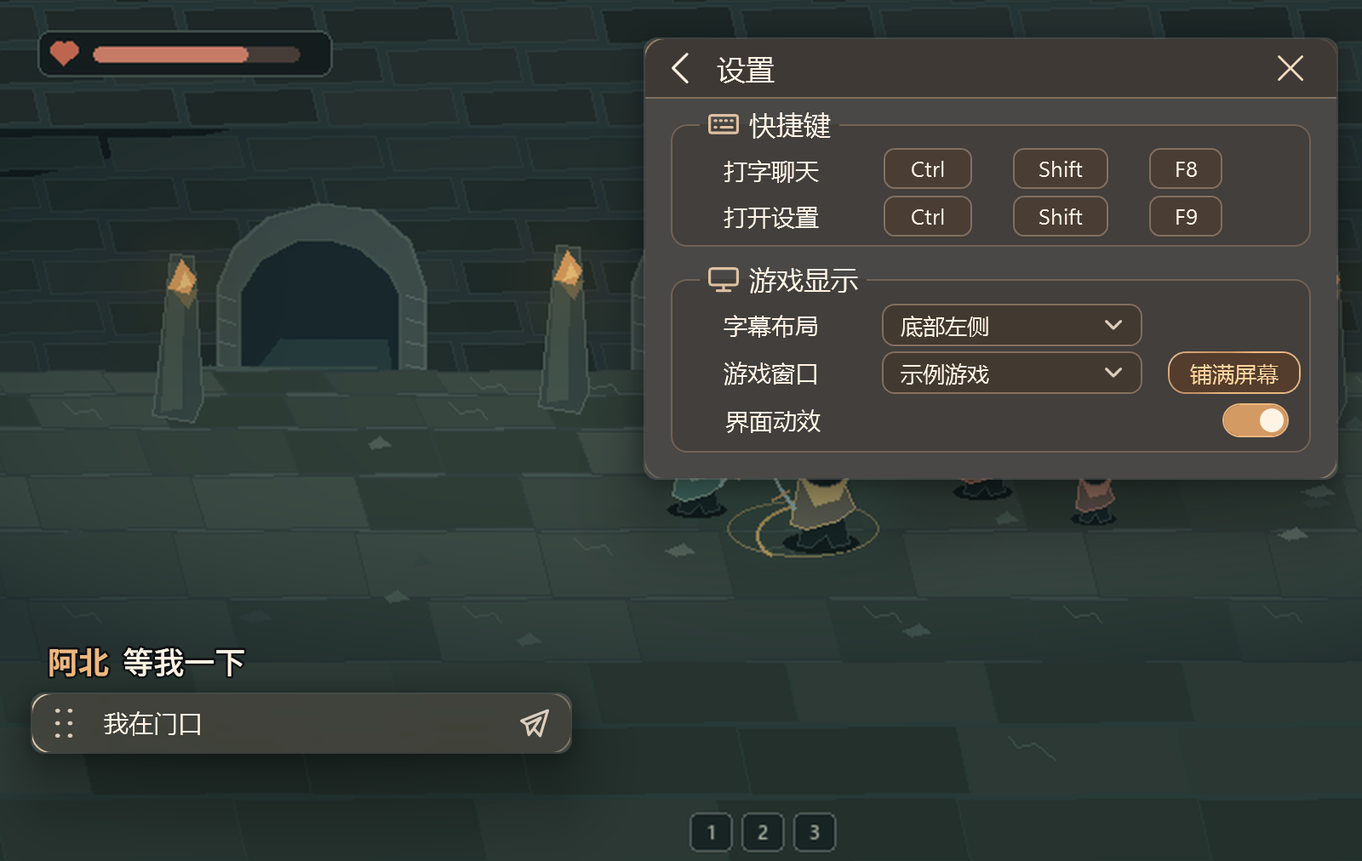
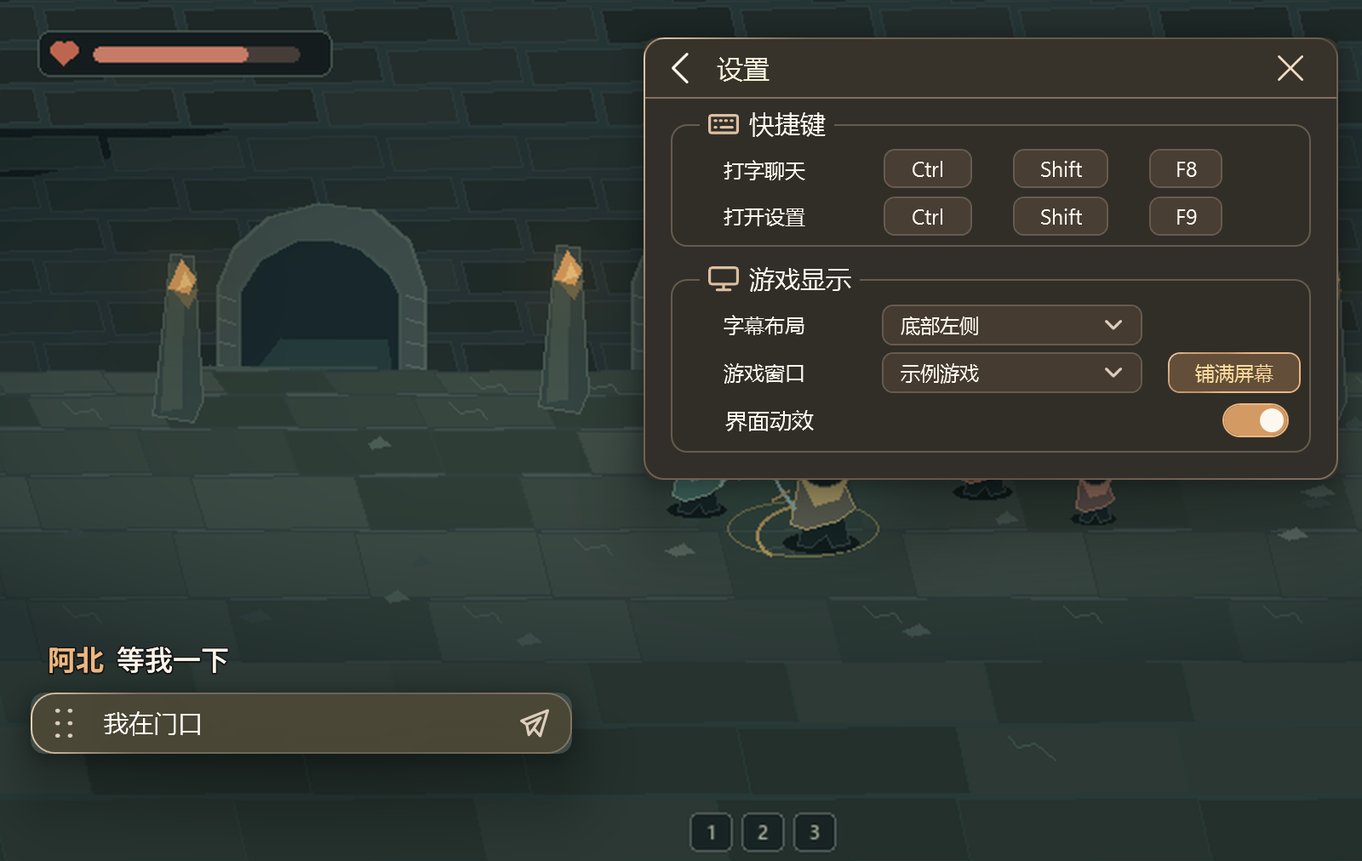
fix(ui): 校准界面字体配色和圆角

Changed region(s): [[0.4688, 0.0613, 1.0, 0.582], [0.6562, 0.3676, 0.8438, 0.4595], [0.0312, 0.7352, 0.1875, 0.7964]]

diff --git a/CampChat/MainWindow.xaml b/CampChat/MainWindow.xaml
@@ -12,6 +12,7 @@
     </shell:WindowChrome.WindowChrome>
     <Window.Resources>
         <BorderGapMaskConverter x:Key="GroupLegendGap"/>
+        <CornerRadius x:Key="ActionRadius">8</CornerRadius>
         <Style x:Key="ScrollTrackButton" TargetType="RepeatButton">
             <Setter Property="Focusable" Value="False"/>
             <Setter Property="Template">
@@ -94,7 +95,7 @@
             </Setter>
         </Style>
         <Style x:Key="SettingsLabel" TargetType="TextBlock">
-            <Setter Property="FontSize" Value="14"/>
+            <Setter Property="FontSize" Value="12"/>
             <Setter Property="FontWeight" Value="Medium"/>
             <Setter Property="VerticalAlignment" Value="Center"/>
         </Style>
@@ -118,8 +119,8 @@
                 </ItemsControl.ItemContainerStyle>
                 <ItemsControl.ItemTemplate>
                     <DataTemplate>
-                        <Border Background="{StaticResource ControlSurface}" BorderBrush="{StaticResource Line}" BorderThickness="1"
-                                CornerRadius="6" Height="24" Padding="7,0">
+                        <Border Background="{StaticResource KeycapSurface}" BorderBrush="{StaticResource SettingsFieldLine}" BorderThickness="1"
+                                CornerRadius="6" Height="23" Padding="7,0">
                             <Border.Style>
                                 <Style TargetType="Border">
                                     <Setter Property="MinWidth" Value="43"/>
@@ -133,7 +134,7 @@
                                     </Style.Triggers>
                                 </Style>
                             </Border.Style>
-                            <TextBlock Text="{Binding}" FontSize="13" Foreground="{StaticResource Paper}"
+                            <TextBlock Text="{Binding}" FontSize="12.5" Foreground="{StaticResource Paper}"
                                        VerticalAlignment="Center" TextAlignment="Center"/>
                         </Border>
                     </DataTemplate>
@@ -177,7 +178,7 @@
             <Setter Property="Template">
                 <Setter.Value>
                     <ControlTemplate TargetType="Button">
-                        <Border x:Name="Frame" Background="{TemplateBinding Background}" CornerRadius="10"
+                        <Border x:Name="Frame" Background="{TemplateBinding Background}" CornerRadius="{DynamicResource ActionRadius}"
                                 BorderBrush="{TemplateBinding BorderBrush}" BorderThickness="1" RenderTransformOrigin=".5,.5">
                             <Border.RenderTransform><ScaleTransform x:Name="PressScale"/></Border.RenderTransform>
                             <VisualStateManager.VisualStateGroups>
@@ -202,7 +203,7 @@
                                 </VisualStateGroup>
                             </VisualStateManager.VisualStateGroups>
                             <Grid>
-                                <Border x:Name="Tint" Background="#25F9D8B6" Opacity="0" CornerRadius="9" IsHitTestVisible="False"/>
+                                <Border x:Name="Tint" Background="#25F9D8B6" Opacity="0" CornerRadius="{Binding CornerRadius, ElementName=Frame}" IsHitTestVisible="False"/>
                                 <ContentPresenter x:Name="ButtonContent" Margin="{TemplateBinding Padding}" HorizontalAlignment="{TemplateBinding HorizontalContentAlignment}"
                                                   VerticalAlignment="Center" RecognizesAccessKey="True"/>
                             </Grid>
@@ -224,9 +225,11 @@
             <Setter Property="FontWeight" Value="SemiBold"/>
         </Style>
         <Style x:Key="HomeAction" TargetType="Button" BasedOn="{StaticResource {x:Type Button}}">
+            <Style.Resources><CornerRadius x:Key="ActionRadius">12.5</CornerRadius></Style.Resources>
             <Setter Property="Height" Value="66"/>
+            <Setter Property="Foreground" Value="{StaticResource HomeActionInk}"/>
             <Setter Property="Width" Value="174"/>
-            <Setter Property="FontSize" Value="18"/>
+            <Setter Property="FontSize" Value="17"/>
             <Setter Property="FontWeight" Value="Medium"/>
             <Setter Property="Padding" Value="9,5"/>
             <Setter Property="BorderBrush" Value="{StaticResource GlassRim}"/>
@@ -234,6 +237,9 @@
         <Style x:Key="HomePrimary" TargetType="Button" BasedOn="{StaticResource HomeAction}">
             <Setter Property="Background" Value="{StaticResource CopperGlass}"/>
             <Setter Property="BorderBrush" Value="{StaticResource CopperRim}"/>
+        </Style>
+        <Style x:Key="WindowModeAction" TargetType="Button" BasedOn="{StaticResource {x:Type Button}}">
+            <Style.Resources><CornerRadius x:Key="ActionRadius">6.5</CornerRadius></Style.Resources>
         </Style>
         <Style x:Key="ShortcutButton" TargetType="Button" BasedOn="{StaticResource IconButton}">
             <Setter Property="Width" Value="Auto"/>
@@ -247,6 +253,7 @@
         <Style TargetType="ComboBox">
             <Setter Property="Foreground" Value="{StaticResource Paper}"/>
             <Setter Property="Background" Value="{StaticResource InputSurface}"/>
+            <Setter Property="BorderBrush" Value="{StaticResource Line}"/>
             <Setter Property="Height" Value="41"/>
             <Setter Property="FocusVisualStyle" Value="{x:Null}"/>
             <Setter Property="ItemContainerStyle">
@@ -275,12 +282,12 @@
                 <Setter.Value>
                     <ControlTemplate TargetType="ComboBox">
                         <Grid>
-                            <ToggleButton Focusable="False" ClickMode="Press"
+                            <ToggleButton Focusable="False" ClickMode="Press" Background="{TemplateBinding Background}" BorderBrush="{TemplateBinding BorderBrush}"
                                           IsChecked="{Binding IsDropDownOpen, RelativeSource={RelativeSource TemplatedParent}, Mode=TwoWay}">
                                 <ToggleButton.Template>
                                     <ControlTemplate TargetType="ToggleButton">
-                                        <Border Background="{StaticResource InputSurface}" BorderBrush="{StaticResource Line}"
-                                                CornerRadius="7" BorderThickness="1">
+                                        <Border Background="{TemplateBinding Background}" BorderBrush="{TemplateBinding BorderBrush}"
+                                                CornerRadius="6" BorderThickness="1">
                                             <Path Data="{StaticResource ChevronDownIcon}" Style="{StaticResource ActionIcon}"
                                                   Width="10" Height="10" HorizontalAlignment="Right" Margin="0,0,11,0"/>
                                         </Border>
@@ -290,7 +297,7 @@
                             <ContentPresenter Margin="11,0,26,0" VerticalAlignment="Center" IsHitTestVisible="False"
                                               Content="{TemplateBinding SelectionBoxItem}"
                                               ContentTemplate="{TemplateBinding SelectionBoxItemTemplate}"/>
-                            <Border x:Name="ComboFocus" IsHitTestVisible="False" CornerRadius="7"
+                            <Border x:Name="ComboFocus" IsHitTestVisible="False" CornerRadius="6"
                                     BorderThickness="1" BorderBrush="{StaticResource Amber}" Visibility="Collapsed"/>
                             <Popup x:Name="PART_Popup" Placement="Bottom" AllowsTransparency="True"
                                    IsOpen="{TemplateBinding IsDropDownOpen}" Focusable="False" PopupAnimation="Fade">
@@ -313,7 +320,7 @@
             </Setter>
         </Style>
     </Window.Resources>
-    <Border BorderBrush="{StaticResource GlassRim}" BorderThickness="1" CornerRadius="12">
+    <Border BorderBrush="{StaticResource GlassRim}" BorderThickness="1" CornerRadius="11.5">
         <Grid>
             <Grid.RowDefinitions>
                 <RowDefinition Height="35"/>
@@ -345,7 +352,7 @@
                     </Button>
                     <StackPanel Orientation="Horizontal" VerticalAlignment="Center" IsHitTestVisible="False">
                         <TextBlock x:Name="HeaderTitle" Text="营地聊天" VerticalAlignment="Center"
-                                   FontSize="19" FontWeight="Medium"/>
+                                   FontSize="17" FontWeight="Medium" Foreground="{StaticResource BrandInk}"/>
                     </StackPanel>
                 </DockPanel>
             </Border>
@@ -362,7 +369,7 @@
                                 AutomationProperties.Name="创建房间">
                             <StackPanel Orientation="Horizontal" HorizontalAlignment="Center">
                                 <Path Data="{StaticResource CreateRoomIcon}" Style="{StaticResource ActionIcon}" Width="38" Height="38"
-                                      Stroke="{StaticResource Paper}" Margin="0,0,12,0"/>
+                                      Stroke="{StaticResource HomeIconInk}" Margin="0,0,12,0"/>
                                 <TextBlock Text="创建房间" VerticalAlignment="Center"/>
                             </StackPanel>
                         </Button>
@@ -370,7 +377,7 @@
                                 AutomationProperties.Name="加入房间">
                             <StackPanel Orientation="Horizontal" HorizontalAlignment="Center">
                                 <Path Data="{StaticResource JoinRoomIcon}" Style="{StaticResource ActionIcon}" Width="38" Height="38"
-                                      Stroke="{StaticResource Paper}" Margin="0,0,12,0"/>
+                                      Stroke="{StaticResource HomeIconInk}" Margin="0,0,12,0"/>
                                 <TextBlock Text="加入房间" VerticalAlignment="Center"/>
                             </StackPanel>
                         </Button>
@@ -457,7 +464,7 @@
                                     <StackPanel Orientation="Horizontal">
                                         <Path Data="{StaticResource KeyboardIcon}" Style="{StaticResource ActionIcon}"
                                               Stroke="{StaticResource SoftAccent}" Margin="0,0,6,0"/>
-                                        <TextBlock Text="快捷键" FontSize="16" FontWeight="Medium" VerticalAlignment="Center"/>
+                                        <TextBlock Text="快捷键" FontSize="14.75" FontWeight="Medium" VerticalAlignment="Center"/>
                                     </StackPanel>
                                 </GroupBox.Header>
                                 <Grid>
@@ -484,7 +491,7 @@
                                     <StackPanel Orientation="Horizontal">
                                         <Path Data="{StaticResource ScreenIcon}" Style="{StaticResource ActionIcon}"
                                               Stroke="{StaticResource SoftAccent}" Margin="0,0,6,0"/>
-                                        <TextBlock Text="游戏显示" FontSize="16" FontWeight="Medium" VerticalAlignment="Center"/>
+                                        <TextBlock Text="游戏显示" FontSize="14.75" FontWeight="Medium" VerticalAlignment="Center"/>
                                     </StackPanel>
                                 </GroupBox.Header>
                                 <Grid>
@@ -499,21 +506,24 @@
                                         <RowDefinition Height="28"/>
                                     </Grid.RowDefinitions>
                                     <TextBlock Text="字幕布局" Style="{StaticResource SettingsLabel}"/>
-                                    <ComboBox x:Name="LayoutPicker" Grid.Column="1" FontSize="13" FontWeight="Medium" Height="25"
+                                    <ComboBox x:Name="LayoutPicker" Grid.Column="1" FontSize="11.5" FontWeight="Medium" Height="24"
+                                              Background="{StaticResource SettingsFieldSurface}" BorderBrush="{StaticResource SettingsFieldLine}"
                                               SelectionChanged="PreferencesChanged" AutomationProperties.Name="游戏内字幕布局">
                                         <ComboBoxItem Content="底部左侧" ToolTip="显示最近三条消息"/>
                                         <ComboBoxItem Content="屏幕右侧" ToolTip="显示最新一条消息"/>
                                     </ComboBox>
                                     <TextBlock Grid.Row="1" Text="游戏窗口" Style="{StaticResource SettingsLabel}"/>
                                     <Grid Grid.Row="1" Grid.Column="1">
-                                        <ComboBox x:Name="GameWindowPicker" FontSize="13" FontWeight="Medium" Height="25" DropDownOpened="GameWindowsOpened"
+                                        <ComboBox x:Name="GameWindowPicker" FontSize="11.5" FontWeight="Medium" Height="24"
+                                                  Background="{StaticResource SettingsFieldSurface}" BorderBrush="{StaticResource SettingsFieldLine}"
+                                                  DropDownOpened="GameWindowsOpened"
                                                   SelectionChanged="GameWindowChanged" AutomationProperties.Name="选择游戏窗口"
                                                   ToolTip="打开列表会刷新当前窗口。">
                                             <ComboBox.ItemTemplate>
                                                 <DataTemplate><TextBlock Text="{Binding Title}" TextTrimming="CharacterEllipsis" ToolTip="{Binding Title}"/></DataTemplate>
                                             </ComboBox.ItemTemplate>
                                         </ComboBox>
-                                        <TextBlock Text="选择窗口" FontSize="13" Foreground="{StaticResource Muted}" Margin="11,0,26,0"
+                                        <TextBlock Text="选择窗口" FontSize="11.5" Foreground="{StaticResource Muted}" Margin="11,0,26,0"
                                                    VerticalAlignment="Center" IsHitTestVisible="False" TextTrimming="CharacterEllipsis">
                                             <TextBlock.Style>
                                                 <Style TargetType="TextBlock">
@@ -528,8 +538,8 @@
                                         </TextBlock>
                                     </Grid>
                                     <Button x:Name="BorderlessButton" Grid.Row="1" Grid.Column="2" Content="铺满屏幕"
-                                            Height="25" MinHeight="25" Click="BorderlessClicked" IsEnabled="False"
-                                            Padding="3,0" FontSize="13" FontWeight="Medium" Margin="15,0,0,0"
+                                            Height="24" MinHeight="24" Style="{StaticResource WindowModeAction}" Click="BorderlessClicked" IsEnabled="False"
+                                            Padding="3,0" FontSize="11.5" FontWeight="Medium" Margin="15,0,0,0"
                                             HorizontalContentAlignment="Center" Foreground="{StaticResource CopperInk}"
                                             BorderBrush="{StaticResource CopperRim}" Background="{StaticResource WindowModeSurface}"
                                             ToolTip="先把游戏切到窗口模式，再铺满屏幕。" ToolTipService.ShowOnDisabled="True"/>

diff --git a/CampChat/OverlayTheme.xaml b/CampChat/OverlayTheme.xaml
@@ -2,29 +2,38 @@
             <ResourceDictionary.MergedDictionaries>
                 <ResourceDictionary Source="OverlayIcons.xaml"/>
             </ResourceDictionary.MergedDictionaries>
-            <SolidColorBrush x:Key="Paper" Color="#FFF3E4"/>
+            <SolidColorBrush x:Key="Paper" Color="#FCF8EF"/>
+            <SolidColorBrush x:Key="BrandInk" Color="#F6E7CC"/>
+            <SolidColorBrush x:Key="PanelTitleInk" Color="#F6EFDA"/>
+            <SolidColorBrush x:Key="HomeActionInk" Color="#FBF6E8"/>
+            <SolidColorBrush x:Key="HomeIconInk" Color="#FBE1C1"/>
+            <SolidColorBrush x:Key="InputInk" Color="#FDFBF7"/>
+            <SolidColorBrush x:Key="SettingsFieldSurface" Color="#BA4D4034"/>
+            <SolidColorBrush x:Key="KeycapSurface" Color="#BA514539"/>
+            <SolidColorBrush x:Key="SettingsFieldLine" Color="#AF80705F"/>
             <SolidColorBrush x:Key="Muted" Color="#DECEBD"/>
             <SolidColorBrush x:Key="Line" Color="#836F5F"/>
             <SolidColorBrush x:Key="Amber" Color="#ECB780"/>
             <SolidColorBrush x:Key="SoftAccent" Color="#DDC0A1"/>
             <SolidColorBrush x:Key="GlassIcon" Color="#F3DDC3"/>
-            <SolidColorBrush x:Key="GroupLine" Color="#A48C7664"/>
-            <SolidColorBrush x:Key="GroupSurface" Color="#3C2C2119"/>
-            <SolidColorBrush x:Key="CopperInk" Color="#FFD39D"/>
-            <SolidColorBrush x:Key="WindowModeSurface" Color="#D0583D29"/>
+            <SolidColorBrush x:Key="GroupLine" Color="#A4867464"/>
+            <SolidColorBrush x:Key="GroupSurface" Color="#42302B21"/>
+            <SolidColorBrush x:Key="CopperInk" Color="#FBD99B"/>
+            <SolidColorBrush x:Key="WindowModeSurface" Color="#CC71583D"/>
             <SolidColorBrush x:Key="ShellSurface" Color="#29231F"/>
-            <SolidColorBrush x:Key="AcrylicSurface" Color="#4129231F"/>
-            <SolidColorBrush x:Key="ComposerSurface" Color="#53442F22"/>
-            <SolidColorBrush x:Key="TitleSurface" Color="#74352820"/>
+            <SolidColorBrush x:Key="AcrylicSurface" Color="#90312214"/>
+            <SolidColorBrush x:Key="SettingsAcrylicSurface" Color="#A51F1A12"/>
+            <SolidColorBrush x:Key="ComposerSurface" Color="#A650432D"/>
+            <SolidColorBrush x:Key="TitleSurface" Color="#6B41392C"/>
             <SolidColorBrush x:Key="InputSurface" Color="#AB41352A"/>
             <SolidColorBrush x:Key="ControlSurface" Color="#A34C3D30"/>
             <SolidColorBrush x:Key="HoverSurface" Color="#4C3B2F"/>
             <FontFamily x:Key="InterfaceFont">Microsoft YaHei UI, Segoe UI</FontFamily>
             <SolidColorBrush x:Key="PopupSurface" Color="#3A3028"/>
             <LinearGradientBrush x:Key="GlassRim" StartPoint="0,0" EndPoint="1,0.68">
-                <GradientStop Color="#E8FFE4BD" Offset="0"/>
-                <GradientStop Color="#997C6E5F" Offset="0.25"/>
-                <GradientStop Color="#76796958" Offset="0.7"/>
+                <GradientStop Color="#E8FFE1BD" Offset="0"/>
+                <GradientStop Color="#A1968170" Offset="0.20"/>
+                <GradientStop Color="#808C7966" Offset="0.68"/>
                 <GradientStop Color="#A5A78C73" Offset="1"/>
             </LinearGradientBrush>
             <LinearGradientBrush x:Key="CopperRim" StartPoint="0,0" EndPoint="0.4,1">
@@ -35,9 +44,9 @@
             </LinearGradientBrush>
             <RadialGradientBrush x:Key="CopperGlass" Center="0.24,0" GradientOrigin="0.18,0"
                                  RadiusX="0.95" RadiusY="1.25">
-                <GradientStop Color="#CA9A6D49" Offset="0"/>
-                <GradientStop Color="#A7805C3B" Offset="0.43"/>
-                <GradientStop Color="#82624A35" Offset="1"/>
+                <GradientStop Color="#DDAD7A50" Offset="0"/>
+                <GradientStop Color="#CC946745" Offset="0.40"/>
+                <GradientStop Color="#BF75563C" Offset="1"/>
             </RadialGradientBrush>
             <LinearGradientBrush x:Key="PrimarySurface" StartPoint="0,0" EndPoint="0,1">
                 <GradientStop Color="#664B36" Offset="0"/>
@@ -56,7 +65,7 @@
             </Style>
             <Style x:Key="PreferenceSwitch" TargetType="CheckBox">
                 <Setter Property="Foreground" Value="{StaticResource Paper}"/>
-                <Setter Property="FontSize" Value="14"/>
+                <Setter Property="FontSize" Value="13"/>
                 <Setter Property="FontWeight" Value="Medium"/>
                 <Setter Property="MinHeight" Value="28"/>
                 <Setter Property="Cursor" Value="Hand"/>

diff --git a/CampChat/MainWindow.xaml.cs b/CampChat/MainWindow.xaml.cs
@@ -48,6 +48,7 @@ public partial class MainWindow : Window
     private string? _invite;
     private string _role = "";
     private int _people;
+    private bool _hasAcrylic;
     private bool _ready;
     private bool _refreshingAdapters;
     private bool _sending;
@@ -86,9 +87,8 @@ public partial class MainWindow : Window
             return;
         if (_source?.CompositionTarget is { } target && Background is SolidColorBrush surface)
         {
-            if (DesktopWindow.TryApplyAcrylic(this, _source))
-                Background = (Brush)FindResource("AcrylicSurface");
-            else
+            _hasAcrylic = DesktopWindow.TryApplyAcrylic(this, _source);
+            if (!_hasAcrylic)
                 target.BackgroundColor = surface.Color;
         }
         LayoutPicker.SelectedIndex = (int)_preferences.Layout;
@@ -349,7 +349,10 @@ public partial class MainWindow : Window
         BackButton.Visibility = VisibleIf(page is Page.Join or Page.Create or Page.Preferences);
         HeaderPreferences.Visibility = VisibleIf(page != Page.Preferences);
         HeaderHide.Visibility = VisibleIf(page != Page.Preferences);
-        HeaderTitle.FontSize = page == Page.Preferences ? 17 : 19;
+        if (_hasAcrylic)
+            Background = (Brush)FindResource(page == Page.Preferences ? "SettingsAcrylicSurface" : "AcrylicSurface");
+        HeaderTitle.FontSize = page == Page.Preferences ? 15.5 : 17;
+        HeaderTitle.Foreground = (Brush)FindResource(page == Page.Preferences ? "PanelTitleInk" : "BrandInk");
         HeaderTitle.Text = page switch
         {
             Page.Create => "创建房间",

diff --git a/CampChat.Overlay.Check/Program.cs b/CampChat.Overlay.Check/Program.cs
@@ -218,6 +218,9 @@ internal static class Program
         Require(create.ActualWidth < stage.ActualWidth / 2 && create.ActualWidth == join.ActualWidth
                 && create.FontSize == join.FontSize && create.FontWeight == join.FontWeight,
             "Home actions are content-sized and use equal typography.");
+        Require(create.Template.FindName("Frame", create) is Border { CornerRadius.TopLeft: 12.5 }
+            && join.Template.FindName("Frame", join) is Border { CornerRadius.TopLeft: 12.5 },
+            "Both home actions use the larger reference radius.");
         var standardWidth = window.Width;
         window.Width = window.MinWidth;
         window.UpdateLayout();
@@ -314,6 +317,8 @@ internal static class Program
             "Settings fit without scrolling at the default window size.");
         var fillScreen = (Button)window.FindName("BorderlessButton");
         var buttonText = (ContentPresenter)fillScreen.Template.FindName("ButtonContent", fillScreen);
+        Require(fillScreen.Template.FindName("Frame", fillScreen) is Border { CornerRadius.TopLeft: 6.5 },
+            "The compact display action uses its own shallower corner radius.");
         var labelCenter = buttonText.TranslatePoint(new Point(buttonText.ActualWidth / 2, 0), fillScreen);
         Require(Math.Abs(labelCenter.X - fillScreen.ActualWidth / 2) <= 0.5,
             "The fill-screen label is centered within the button.");

diff --git a/CampChat/OverlayText.cs b/CampChat/OverlayText.cs
@@ -8,10 +8,10 @@ internal sealed class OverlayText : FrameworkElement
 {
     private static readonly Typeface Face = new(OverlayStyle.InterfaceFont,
         FontStyles.Normal, FontWeights.Medium, FontStretches.Normal);
-    private static readonly Brush TextBrush = FrozenBrush(0xff, 0xff, 0xf3, 0xe4);
+    private static readonly Brush TextBrush = FrozenBrush(0xff, 0xfa, 0xf4, 0xeb);
     private static readonly Brush SpeakerBrush = FrozenBrush(0xff, 0xec, 0xb7, 0x80);
     private static readonly Pen Outline = MakeOutline();
-    private const double TextSize = 18;
+    private const double TextSize = 16.5;
     private const double Inset = 3;
     private FormattedText? _formatted;
     private Geometry? _outlineGeometry;
@@ -110,7 +110,7 @@ internal sealed class OverlayText : FrameworkElement
 
     private static Pen MakeOutline()
     {
-        var pen = new Pen(FrozenBrush(0xee, 0x0d, 0x0f, 0x12), 2.6)
+        var pen = new Pen(FrozenBrush(0xdc, 0x12, 0x10, 0x0e), 1.8)
         {
             LineJoin = PenLineJoin.Round,
         };

diff --git a/CampChat/OverlaySurfaces.cs b/CampChat/OverlaySurfaces.cs
@@ -227,7 +227,7 @@ internal sealed class ComposerWindow : Window
     {
         Background = Brushes.Transparent, BorderThickness = new Thickness(0), Padding = new Thickness(0, 3, 0, 3),
         VerticalContentAlignment = VerticalAlignment.Center, MaxLength = 400, FontSize = InputTextSize,
-        Foreground = OverlayStyle.FindBrush("Paper"), CaretBrush = OverlayStyle.FindBrush("Amber"),
+        Foreground = OverlayStyle.FindBrush("InputInk"), CaretBrush = OverlayStyle.FindBrush("Amber"),
         FocusVisualStyle = null,
     };
     private readonly Border _frame;
@@ -305,7 +305,7 @@ internal sealed class ComposerWindow : Window
         content.Children.Add(layout);
         _frame = new Border
         {
-            CornerRadius = new CornerRadius(12), BorderThickness = new Thickness(1),
+            CornerRadius = new CornerRadius(14), BorderThickness = new Thickness(1),
             BorderBrush = OverlayStyle.FindBrush("GlassRim"),
             Background = OverlayStyle.FindBrush("ShellSurface"), Child = content,
         };

diff --git a/CampChat/DesktopWindow.cs b/CampChat/DesktopWindow.cs
@@ -67,6 +67,11 @@ internal static class DesktopWindow
         var roundCorner = 2;
         DwmSetWindowAttribute(source.Handle, cornerAttribute, ref roundCorner, sizeof(int));
 
+        // The application already draws its own rim over the system backdrop.
+        const int borderAttribute = 34;
+        var noBorder = unchecked((int)0xFFFFFFFE);
+        DwmSetWindowAttribute(source.Handle, borderAttribute, ref noBorder, sizeof(int));
+
         if (!AcrylicAvailable() || WindowChrome.GetWindowChrome(window) is not { } chrome
             || source.CompositionTarget is not { } target)
             return false;

diff --git a/CHANGELOG.md b/CHANGELOG.md
@@ -1,5 +1,10 @@
 # 变更记录
 
+## v0.1.3 · 2026-11-24
+
+- 对照参考图的可见字形校准首页、设置和字幕的字号。标题、正文、图标与强调文字分别使用取样配色。
+- 校准设置底色、键帽、选择框和铜色操作。主窗口和输入条只绘制一套描边，首页与设置按钮各用独立圆角。
+
 ## v0.1.2 · 2026-11-24
 
 - 按设计图调整标题栏高度、设置分组位置、字段对齐和上下留白。
